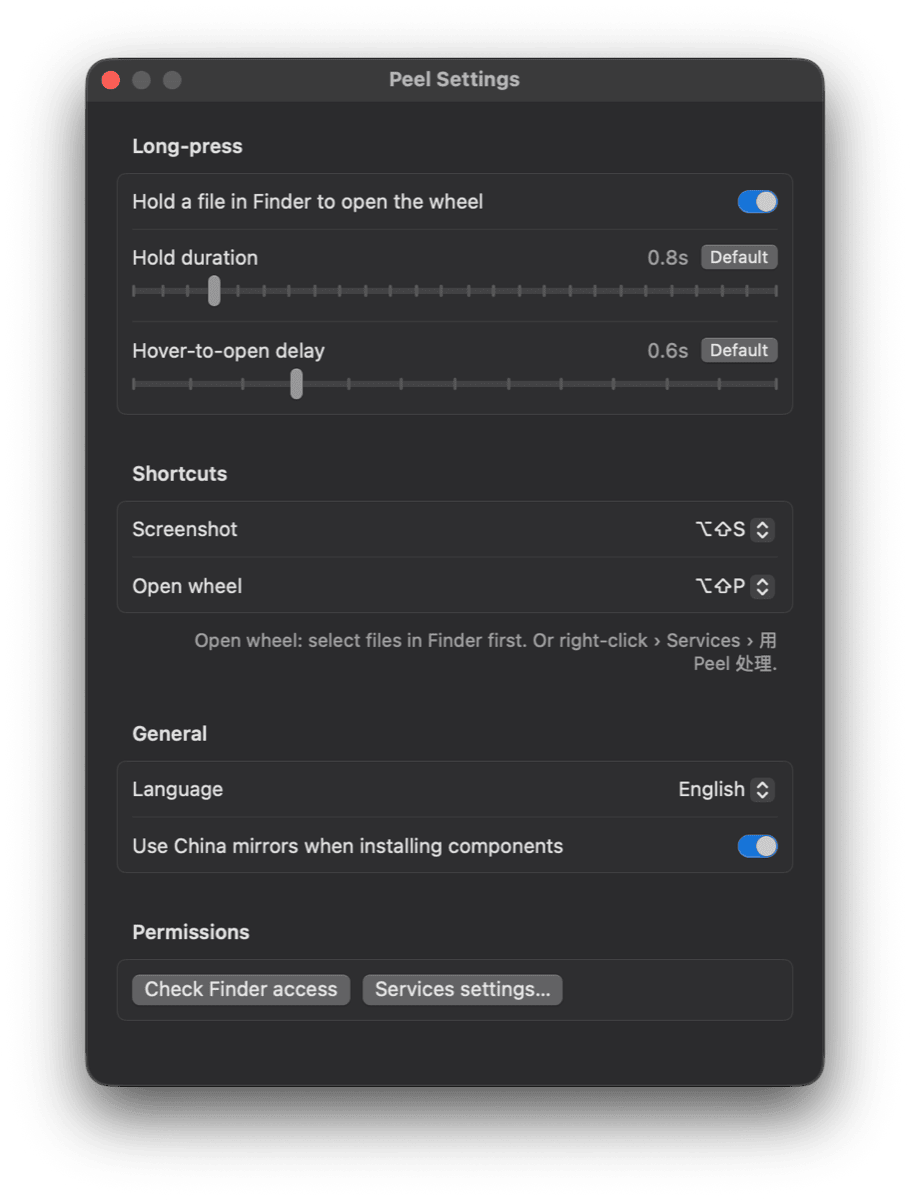
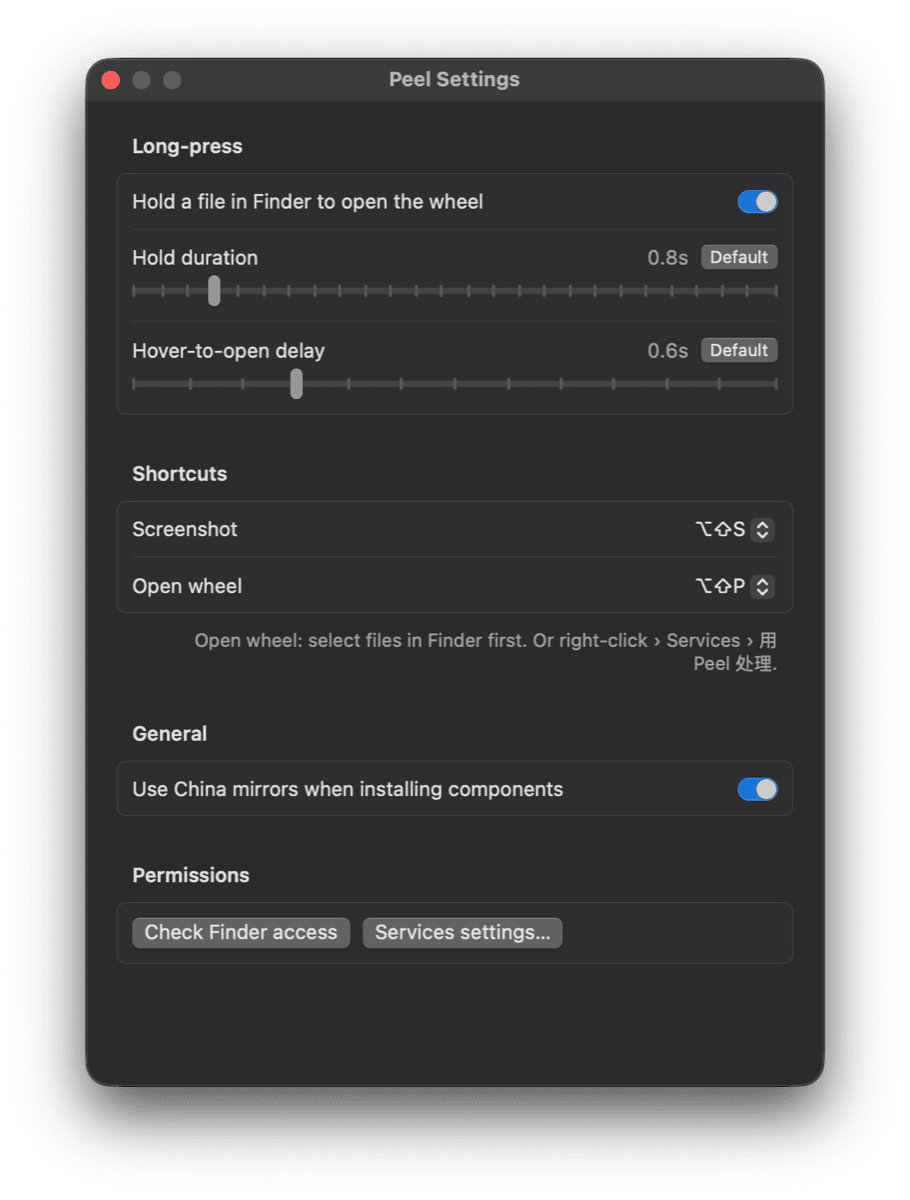
0.8.3: language follows system, switch in menu bar; swatch ring fix
- First launch picks Chinese only if the system's preferred language is
  Chinese, otherwise English.
- Language submenu "语言 / Language" moved from Settings to the menu bar;
  Settings.lang posts a notification so open windows redraw at once
  (previously the Settings window redrew before the value was saved).
- ColorSwatch selection ring uses strokeBorder so it isn't clipped.

Changed region(s): [[0.1231, 0.6475, 0.6154, 0.8633], [0.7385, 0.6475, 0.8615, 0.74]]

diff --git a/Sources/Peel/App/SettingsWindow.swift b/Sources/Peel/App/SettingsWindow.swift
@@ -25,21 +25,25 @@ final class SettingsWindow: NSObject, NSWindowDelegate {
         window.isReleasedWhenClosed = false
         window.delegate = self
         let size = NSSize(width: 480, height: 640)
-        window.contentView = NSHostingView(rootView: SettingsView(retitle: { [weak window] in
-            window?.title = t("Peel 设置", "Peel Settings")
-        }).frame(width: size.width, height: size.height))
+        window.contentView = NSHostingView(rootView: SettingsView().frame(width: size.width, height: size.height))
         window.setContentSize(size)
         window.center()
+        // 从菜单栏切换语言后，标题跟着变
+        langObserver = NotificationCenter.default.addObserver(forName: Settings.langChanged, object: nil, queue: .main) {
+            [weak window] _ in window?.title = t("Peel 设置", "Peel Settings")
+        }
     }
 
+    private var langObserver: NSObjectProtocol?
+
     func windowWillClose(_ notification: Notification) {
+        if let langObserver { NotificationCenter.default.removeObserver(langObserver) }
         if SettingsWindow.current === self { SettingsWindow.current = nil }
     }
 }
 
 private struct SettingsView: View {
-    let retitle: () -> Void
-
+    /// 语言在菜单栏里切换；切换后整页重绘
     @State private var lang = Settings.lang
     @State private var longPress = Settings.longPressEnabled
     @State private var hold = Settings.holdDuration
@@ -86,11 +90,6 @@ private struct SettingsView: View {
             }
 
             Section(t("通用", "General")) {
-                Picker(t("语言", "Language"), selection: $lang) {
-                    Text("中文").tag(Lang.zh)
-                    Text("English").tag(Lang.en)
-                }
-                .onChange(of: lang) { Settings.lang = $0; retitle() }
                 Toggle(t("安装组件时使用国内镜像", "Use China mirrors when installing components"), isOn: $mirror)
                     .onChange(of: mirror) { Settings.useChinaMirror = $0 }
             }
@@ -110,7 +109,8 @@ private struct SettingsView: View {
             }
         }
         .formStyle(.grouped)
-        .id(lang)   // 切换语言后整页重绘
+        .id(lang)
+        .onReceive(NotificationCenter.default.publisher(for: Settings.langChanged)) { _ in lang = Settings.lang }
     }
 
     private func slider(_ title: String, value: Binding<Double>, range: ClosedRange<Double>,

diff --git a/Sources/Peel/App/AppDelegate.swift b/Sources/Peel/App/AppDelegate.swift
@@ -164,6 +164,14 @@ final class AppDelegate: NSObject, NSApplicationDelegate, NSMenuDelegate {
         let settings = item(t("设置…", "Settings…")) { SettingsWindow.open() }
         settings.keyEquivalent = ","
         menu.addItem(settings)
+        // 语言放在菜单里、标题中英都写：看不懂当前语言的人也能找到
+        let langMenu = NSMenu()
+        langMenu.addItem(item("中文", checked: Settings.lang == .zh) { Settings.lang = .zh })
+        langMenu.addItem(item("English", checked: Settings.lang == .en) { Settings.lang = .en })
+        let langItem = NSMenuItem(title: "语言 / Language", action: nil, keyEquivalent: "")
+        langItem.image = NSImage(systemSymbolName: "globe", accessibilityDescription: nil)
+        langItem.submenu = langMenu
+        menu.addItem(langItem)
         menu.addItem(.separator())
         menu.addItem(item(Setup.isInstalling ? t("组件（正在安装…）", "Components (installing…)")
                                               : t("组件…", "Components…")) { Setup.showStatus() })

diff --git a/Sources/Peel/App/Settings.swift b/Sources/Peel/App/Settings.swift
@@ -11,9 +11,19 @@ enum Settings {
     /// 开发渲染时临时指定语言，不写入偏好
     static var langOverride: Lang?
 
+    /// 没选过语言时跟随系统：系统首选语言是中文就用中文，否则英文
     static var lang: Lang {
-        get { langOverride ?? Lang(rawValue: d.string(forKey: "lang") ?? "") ?? .zh }
-        set { d.set(newValue.rawValue, forKey: "lang") }
+        get { langOverride ?? Lang(rawValue: d.string(forKey: "lang") ?? "") ?? systemLang }
+        set {
+            d.set(newValue.rawValue, forKey: "lang")
+            NotificationCenter.default.post(name: langChanged, object: nil)
+        }
+    }
+
+    static let langChanged = Notification.Name("PeelLangChanged")
+
+    private static var systemLang: Lang {
+        (Locale.preferredLanguages.first ?? "").hasPrefix("zh") ? .zh : .en
     }
 
     static let defaultHold = 1.0

diff --git a/Sources/Peel/Edit/EditorWindow.swift b/Sources/Peel/Edit/EditorWindow.swift
@@ -129,8 +129,9 @@ struct ColorSwatch: View {
 
     var body: some View {
         ZStack {
+            // 选中圈画在圆的内侧（strokeBorder），不会超出边界被滚动区域裁掉
             Circle()
-                .stroke(PeelColors.ring, lineWidth: 2.5)
+                .strokeBorder(PeelColors.ring, lineWidth: 2.5)
                 .opacity(selected ? 1 : 0)
             Circle()
                 .fill(color)

diff --git a/README.md b/README.md
@@ -48,7 +48,7 @@ The wheel only shows what makes sense for that file type — a Word document get
 | **Images** | Convert (JPG / PNG / HEIC / WebP / PDF), compress, **compress to a target size** (≤ 2 MB / 1 MB / 500 KB / custom), crop, resize, add background, strip location / metadata, **ID photo** (background swap, face-aware framing, common Chinese & visa sizes, optional print sheet), cutout to transparent PNG |
 | **Audio & video** | Convert, compress (with size estimate and progress), extract audio, video → GIF |
 | **Screenshots** | **⌥⇧S** to select an area → Save (pick a folder) / Copy / Copy Text (on-device OCR) / Pin to screen. Never auto-saved: it only goes to the clipboard unless you save it or drag the thumbnail out |
-| **Other** | Zip, Chinese / English UI, settings window (⌘,) for timings and shortcuts |
+| **Other** | Zip, Chinese / English UI (follows your system language; switch anytime under menu-bar icon › 语言 / Language), settings window (⌘,) for timings and shortcuts |
 
 ## Screenshots
 
@@ -63,7 +63,7 @@ The wheel only shows what makes sense for that file type — a Word document get
 
 <p align="center">
   <img src="Docs/images/settings.png" width="380" alt="Settings window">
-  <br><sub>Settings: hold / hover timings, shortcuts, language</sub>
+  <br><sub>Settings: hold / hover timings, shortcuts, permissions</sub>
 </p>
 
 ## Install

diff --git a/README.zh-CN.md b/README.zh-CN.md
@@ -46,7 +46,7 @@
 | **图片** | 转换（JPG / PNG / HEIC / WebP / PDF）、压缩、**压缩到指定大小**（≤ 2 MB / 1 MB / 500 KB / 自定义）、裁剪、改尺寸、加背景、去掉位置 / 元数据、**证件照**（换底色、按人脸构图、国内及签证尺寸、可选 6 寸排版）、抠图（透明 PNG） |
 | **音频、视频** | 转换、压缩（预估大小、显示进度）、提取音频、视频转 GIF |
 | **截图** | **⌥⇧S** 框选 → 保存（选位置）/ 复制 / 识别文字（本地 OCR）/ 钉在屏幕上。不会自动保存，只复制到剪贴板；缩略图可直接拖到文件夹或其他 App |
-| **其他** | ZIP 压缩、中英文界面、设置窗口（⌘,）里调时长和快捷键 |
+| **其他** | ZIP 压缩、中英文界面（默认跟随系统语言，可在菜单栏图标 › 语言 / Language 里切换）、设置窗口（⌘,）里调时长和快捷键 |
 
 ## 截图
 
@@ -61,7 +61,7 @@
 
 <p align="center">
   <img src="Docs/images/settings.png" width="380" alt="设置窗口">
-  <br><sub>设置窗口：长按 / 悬停时长、快捷键、语言</sub>
+  <br><sub>设置窗口：长按 / 悬停时长、快捷键、权限</sub>
 </p>
 
 ## 安装

diff --git a/CHANGELOG.md b/CHANGELOG.md
@@ -1,5 +1,10 @@
 # Changelog
 
+## 0.8.3 — 2026-10-19
+- Language follows the system language on first launch (English on non-Chinese Macs).
+- Language switch moved to the menu bar as **语言 / Language**, readable in both languages; switching now updates open windows immediately.
+- Fixed the color swatch's selection ring being clipped on the left.
+
 ## 0.8.2 — 2026-10-19
 - The default watermark text now follows the app language (English UI no longer starts with Chinese text).
 - "1 page" instead of "1 pages" in the watermark window.
